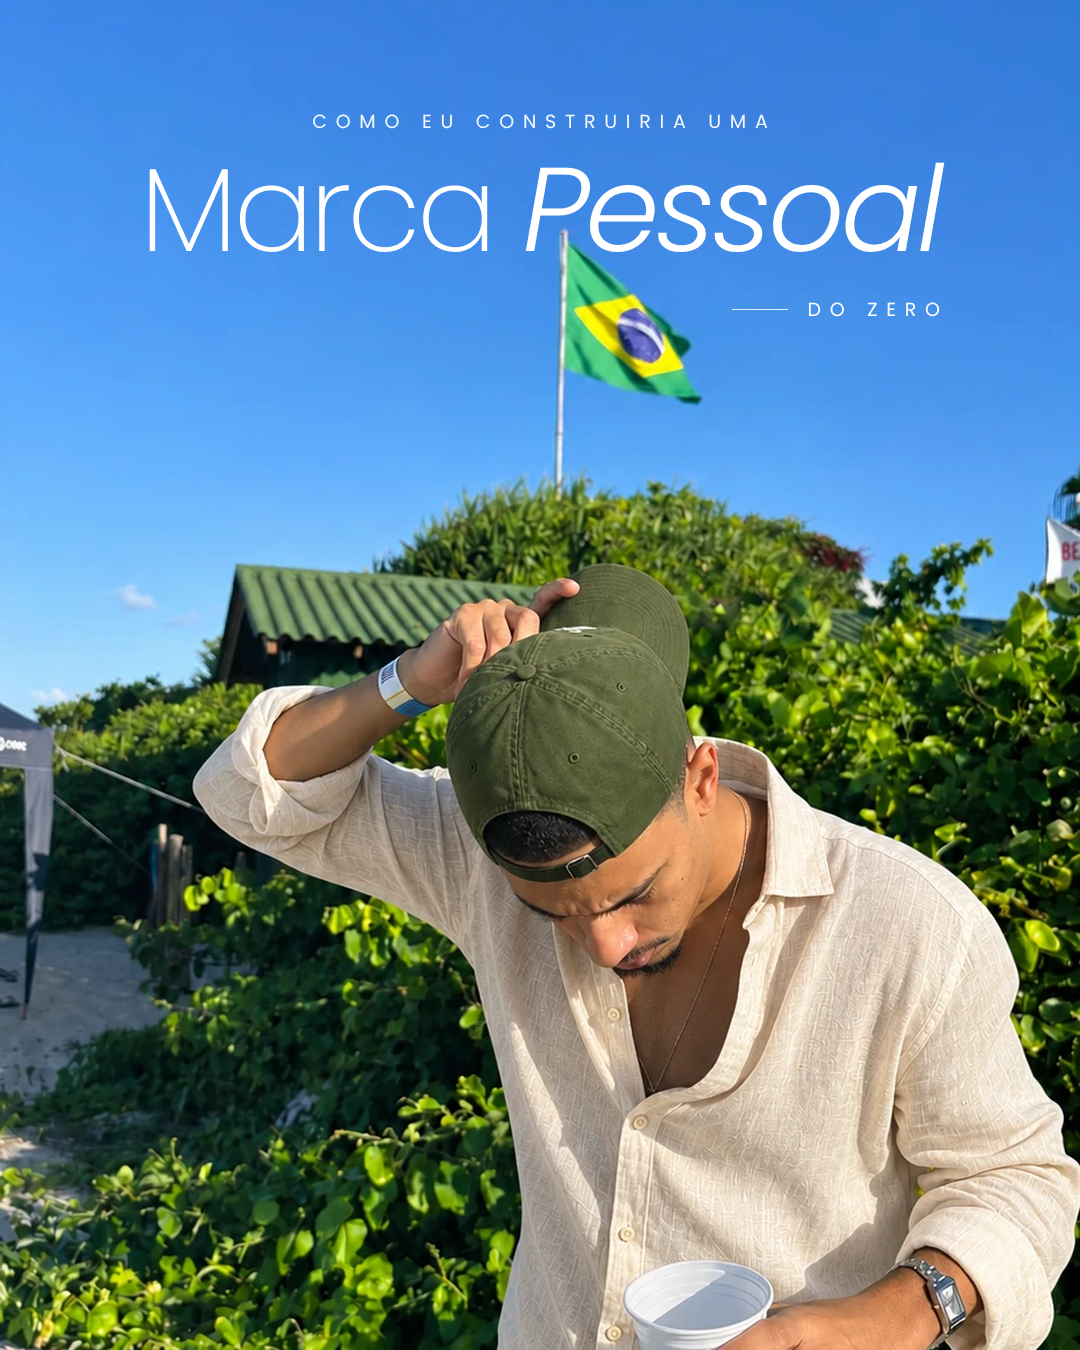
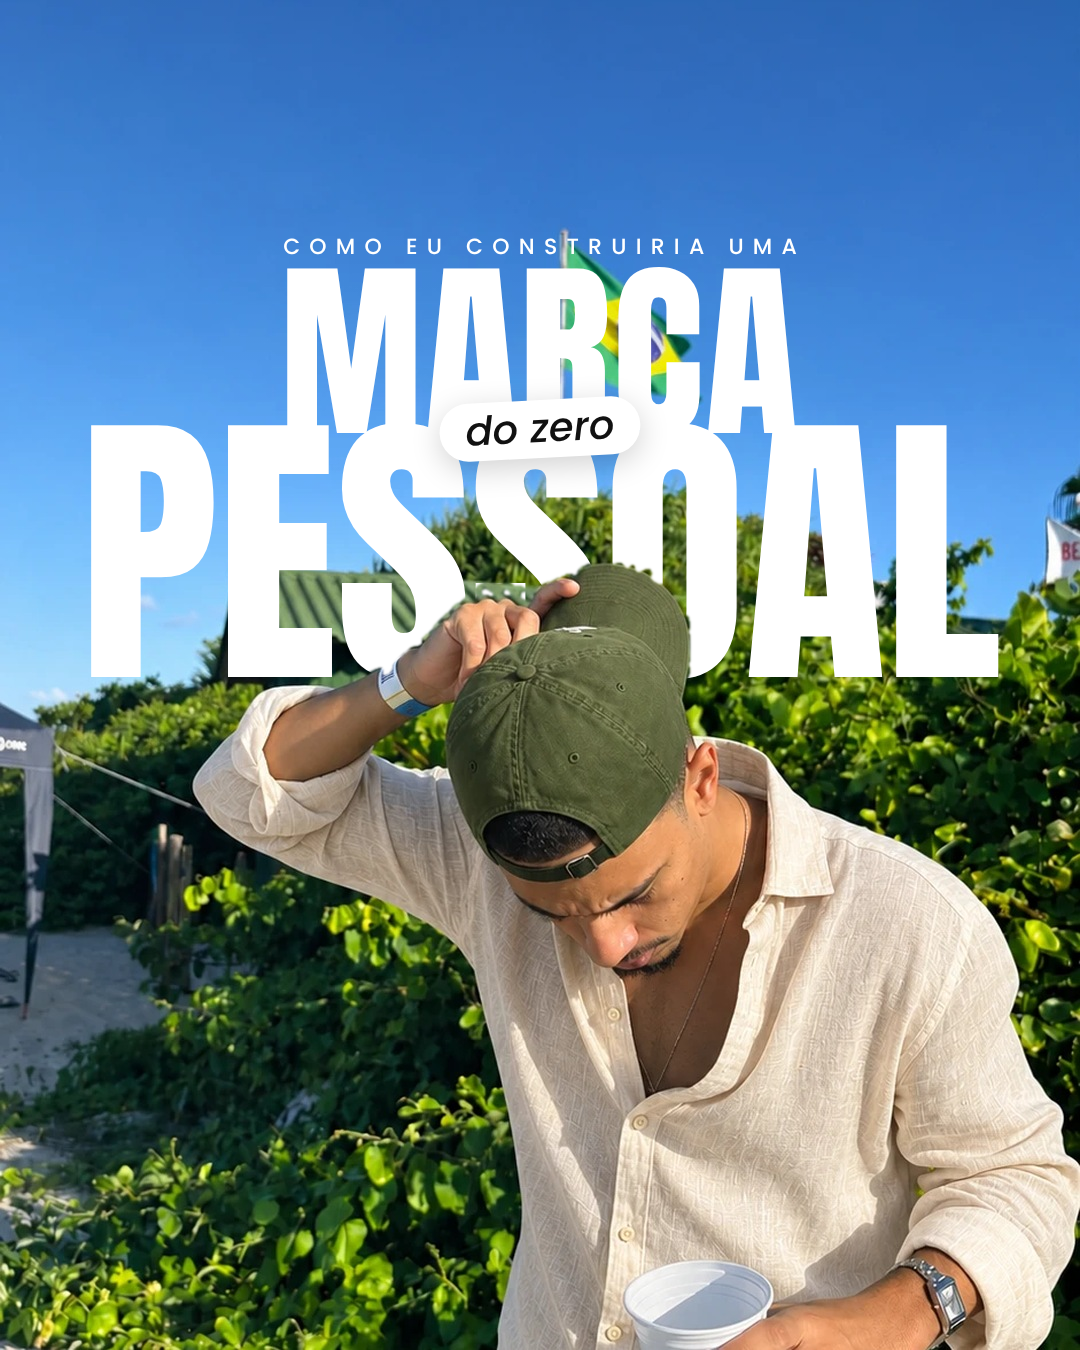
Capa com hook em destaque e recorte só da pessoa na frente do título
Claude-Session: https://claude.ai/code/session_01CR2zLXebwu2nvAjBiSDjK9

Changed region(s): [[0.0, 0.0, 1.0, 0.5289]]

diff --git a/carrossel/carrosseis/01-marca-pessoal/capa/capa.html b/carrossel/carrosseis/01-marca-pessoal/capa/capa.html
@@ -1,29 +1,39 @@
 <!doctype html><html><head><meta charset="utf-8">
-<link rel="stylesheet" href="https://fonts.googleapis.com/css2?family=Poppins:ital,wght@0,200;0,300;0,400;0,500;1,200;1,300&display=swap">
+<link rel="stylesheet" href="https://fonts.googleapis.com/css2?family=Anton&family=Poppins:ital,wght@0,500;0,600;1,500&display=swap">
 <style>
 html,body{margin:0;background:#000}
 .c{position:relative;width:1080px;height:1350px;overflow:hidden}
 .c>img{position:absolute;inset:0;width:100%;height:100%}
-.t{position:absolute;left:80px;right:80px;top:0;color:#fff;font-family:Poppins,sans-serif;text-align:center}
-.kick{position:absolute;left:0;right:0;top:112px;font:400 19px/1 Poppins;letter-spacing:.46em;text-transform:uppercase;padding-left:.46em;opacity:.95}
-.big{position:absolute;left:0;right:0;top:150px;font:200 136px/1 Poppins;letter-spacing:-.035em;white-space:nowrap}
-.big i{font-style:italic;font-weight:300}
-.foot{position:absolute;right:60px;top:300px;display:flex;align-items:center;justify-content:flex-end;gap:20px;font:400 19px/1 Poppins;letter-spacing:.46em;text-transform:uppercase}
-.foot span{display:block;width:56px;height:1px;background:rgba(255,255,255,.85)}
-.foot b{font-weight:400;margin-right:-.46em}
-.sign{position:absolute;left:0;right:0;bottom:80px;text-align:center;color:#fff;font:300 17px/1 Poppins;letter-spacing:.5em;text-transform:uppercase;padding-left:.5em;opacity:.9}
+.t{position:absolute;inset:0;color:#fff}
+.t>*{position:absolute;white-space:nowrap;left:0;right:0;text-align:center}
+.kick{top:236px;font:500 22px/1 Poppins;letter-spacing:.42em;text-transform:uppercase;padding-left:.42em}
+.marca{top:272px;font:400 200px/.84 Anton;text-transform:uppercase;letter-spacing:.01em}
+.pessoal{top:330px;font:400 300px/.84 Anton;text-transform:uppercase;letter-spacing:-.005em}
+.tag{top:0;left:50%;right:auto;transform:translateX(-50%) rotate(-3deg);font:italic 500 40px/1 Poppins;color:#111;background:#fff;padding:8px 26px 10px;border-radius:99px;box-shadow:0 8px 30px rgba(0,0,0,.18)}
+.shade{position:absolute;inset:0;background:linear-gradient(180deg,rgba(0,0,0,.18),rgba(0,0,0,0) 38%)}
 </style></head><body>
 <div class="c">
   <img src="foto.jpg">
+  <div class="shade"></div>
   <div class="t">
     <div class="kick">Como eu construiria uma</div>
-    <div class="big">Marca <i>Pessoal</i></div>
-    <div class="foot"><span></span><b>do zero</b></div>
+    <div class="marca">Marca</div>
+    <div class="pessoal">Pessoal</div>
   </div>
-  <img src="frente.png">
+  <img src="pessoa.png">
+  <div class="t"><div class="tag">do zero</div></div>
 </div>
 <script>
-document.fonts.ready.then(()=>{const m=document.querySelector('.big');const r=document.createRange();r.selectNodeContents(m);
-const w=r.getBoundingClientRect().width; m.style.fontSize=(136*800/w)+'px'; const f=document.querySelector('.foot');const R=r.getBoundingClientRect();f.style.right=(1000-R.right)+'px';document.body.dataset.ok=1});
+function fit(e,target){const r=document.createRange();r.selectNodeContents(e);const w=r.getBoundingClientRect().width;
+ e.style.fontSize=(parseFloat(getComputedStyle(e).fontSize)*target/w)+'px'}
+document.fonts.ready.then(()=>{
+ const m=document.querySelector('.marca'), p=document.querySelector('.pessoal'), tag=document.querySelector('.tag');
+ fit(m,520); fit(p,920);
+ // PESSOAL logo abaixo de MARCA, com sobreposição leve
+ const mb=m.getBoundingClientRect(); const capH=parseFloat(getComputedStyle(m).fontSize)*.84;
+ p.style.top=(mb.top+capH*0.98)+'px';
+ const pb=p.getBoundingClientRect();
+ tag.style.top=(pb.top-30)+'px';
+ document.body.dataset.ok=1});
 </script>
 </body></html>

diff --git a/carrossel/carrosseis/01-marca-pessoal/capa/opcoes.html b/carrossel/carrosseis/01-marca-pessoal/capa/opcoes.html
@@ -1,0 +1,47 @@
+<!doctype html><html><head><meta charset="utf-8">
+<link rel="stylesheet" href="https://fonts.googleapis.com/css2?family=Anton&family=Bodoni+Moda:ital,opsz,wght@0,6..96,400;1,6..96,400;1,6..96,500&family=Cormorant+Garamond:wght@300;400&family=Poppins:ital,wght@0,300;0,400;0,500;0,600;0,700;1,300;1,500&display=swap">
+<style>
+html,body{margin:0;background:#000}
+.c{position:relative;width:1080px;height:1350px;overflow:hidden}
+.c>img{position:absolute;inset:0;width:100%;height:100%}
+.t{position:absolute;inset:0;color:#fff}
+.t>*{position:absolute;white-space:nowrap}
+/* A — sans pesada + serifa itálica (ref 1) */
+.a .l1{left:84px;top:96px;font:500 36px/1 Poppins;letter-spacing:-.01em}
+.a .l2{left:80px;top:128px;font:700 150px/1 Poppins;letter-spacing:-.055em}
+.a .l3{right:80px;top:200px;font:italic 400 250px/1 "Bodoni Moda";letter-spacing:-.03em}
+.a .l4{right:84px;top:160px;font:500 26px/1.15 Poppins;letter-spacing:.18em;text-transform:uppercase;text-align:right}
+/* B — caixa alta condensada + selo (ref 2) */
+.b .l1{left:0;right:0;top:92px;text-align:center;font:500 24px/1 Poppins;letter-spacing:.32em;text-transform:uppercase;padding-left:.32em}
+.b .l2{left:80px;right:80px;top:120px;text-align:center;font:400 210px/.86 Anton;letter-spacing:-.005em;text-transform:uppercase}
+.b .l3{left:80px;right:80px;top:300px;text-align:center;font:400 210px/.86 Anton;letter-spacing:-.005em;text-transform:uppercase}
+.b .l4{left:50%;top:282px;transform:translateX(-50%) rotate(-3deg);font:italic 500 40px/1 Poppins;letter-spacing:-.01em;border:2px solid #fff;padding:6px 22px 8px;border-radius:99px;backdrop-filter:blur(6px);background:rgba(255,255,255,.12)}
+/* C — serifa gigante fina + frases pequenas encaixadas (ref 3) */
+.cc .l1{left:84px;top:104px;font:300 40px/1 Poppins;letter-spacing:-.01em}
+.cc .l1 b{font-weight:600}
+.cc .l2{left:66px;top:118px;font:300 330px/1 "Cormorant Garamond";letter-spacing:-.045em}
+.cc .l3{left:84px;top:410px;font:500 38px/1 Poppins;letter-spacing:-.015em}
+.cc .l4{right:84px;top:396px;font:300 30px/1.1 Poppins;text-align:right}
+.cc .l4 b{font-weight:600}
+</style></head><body>
+<div class="c" id="c">
+  <img src="foto.jpg">
+  <div class="t" id="t"></div>
+  <img src="frente.png">
+</div>
+<script>
+const v=new URLSearchParams(location.search).get('v')||'a';
+const T={
+ a:`<div class="l1">Como eu construiria uma</div><div class="l2">Marca</div><div class="l4">do<br>zero</div><div class="l3">Pessoal</div>`,
+ b:`<div class="l1">Como eu construiria uma</div><div class="l2">Marca</div><div class="l3">Pessoal</div><div class="l4">do zero</div>`,
+ cc:`<div class="l1">Como eu construiria uma <b>marca</b></div><div class="l2">pessoal</div><div class="l3">do zero</div><div class="l4">sem depender de<br><b>orçamento grande</b></div>`
+};
+const t=document.getElementById('t'); t.className='t '+v; t.innerHTML=T[v];
+function fit(sel,target,prop){const e=document.querySelector(sel);if(!e)return;const r=document.createRange();r.selectNodeContents(e);
+ const w=r.getBoundingClientRect().width;const fs=parseFloat(getComputedStyle(e).fontSize);e.style.fontSize=(fs*target/w)+'px'}
+document.fonts.ready.then(()=>{
+ if(v==='a'){fit('.l3',760)}
+ if(v==='b'){fit('.l2',700);fit('.l3',920)}
+ if(v==='cc'){fit('.l2',930)}
+ document.body.dataset.ok=1});
+</script></body></html>

diff --git a/carrossel/carrosseis/01-marca-pessoal/capa/render-opcoes.js b/carrossel/carrosseis/01-marca-pessoal/capa/render-opcoes.js
@@ -1,0 +1,10 @@
+const { chromium } = require("playwright"); const path = require("path");
+(async () => {
+  const b = await chromium.launch(); const p = await b.newPage({ viewport: { width: 1080, height: 1350 } });
+  for (const v of ["a","b","cc"]) {
+    await p.goto("file://" + path.join(__dirname, "opcoes.html") + "?v=" + v);
+    await p.waitForSelector("body[data-ok]"); await p.waitForTimeout(250);
+    await (await p.$(".c")).screenshot({ path: path.join(__dirname, `opcao-${v==="cc"?"c":v}.png`) });
+  }
+  await b.close(); console.log("ok");
+})();

diff --git a/carrossel/ESTILO.md b/carrossel/ESTILO.md
@@ -51,12 +51,12 @@ O gerador avisa (e pede confirmação ao exportar) se a capa não tem foto ou se
 > Escreva um carrossel no estilo Zanellato sobre **[TEMA]**, em JSON no formato de `exemplos/marca-pessoal.json`.
 > Slide 1 tipo "capa" (pre / linha1 / linha2 gigante / pos). De 4 a 6 slides "conteudo" numerados 01, 02…, cada um com título imperativo curto, subtítulo com a tensão e corpo de até 330 caracteres (pode usar `itens`). Último slide tipo "cta" com kicker "O resumo", título em 2 linhas de contraste, texto de 1 frase e chamada "**Salva esse post e segue** {handle}". Português do Brasil, frases curtas, sem emoji.
 
-## Capa (recorte, minimalista)
-Perfil chique, público AAA: menos é mais. Composição em camadas (`carrosseis/<nome>/capa/capa.html`):
-foto → texto → recorte da foto (tudo que não é céu), então o texto fica **atrás** da bandeira/mastro/morro.
-- Chamada em caixa alta pequena (Poppins 400, 19 px, espaçamento .46em)
-- Título em Poppins 200 + palavra-chave em Poppins 300 itálico, centralizado, ~800 px de largura
-- Complemento ("— DO ZERO") pequeno, alinhado ao fim do título, em área limpa
-- Tudo branco. Sem selos, sem neon, sem pesos pesados
-- Margem de segurança de 80 px em todos os lados
+## Capa (hook em destaque + recorte da pessoa)
+Objetivo: parar o scroll sendo elegante. O hook é o herói.
+- Camadas (`carrosseis/<nome>/capa/capa.html`): foto → título → **recorte só da pessoa** (`pessoa.png`) → selo.
+  A pessoa (boné, mão) fica **na frente** da palavra gigante; árvores/fundo ficam atrás.
+- Hierarquia por tamanho: chamada pequena espaçada (Poppins 500, caixa alta) → palavra média (Anton) → **palavra gigante** (Anton, largura total entre margens) com leve sobreposição.
+- Selo em itálico (Poppins 500) branco sólido com texto escuro, levemente inclinado, encaixado entre as linhas.
+- Tudo branco/neutro, sem neon. Margem de segurança de 80 px.
+- Referências de tipografia: contraste de peso/estilo, escala extrema, palavras pequenas encaixadas nos vãos.
 O slide 1 do roteiro usa `"tipo": "pronta"` apontando para `capa/capa.png`.
